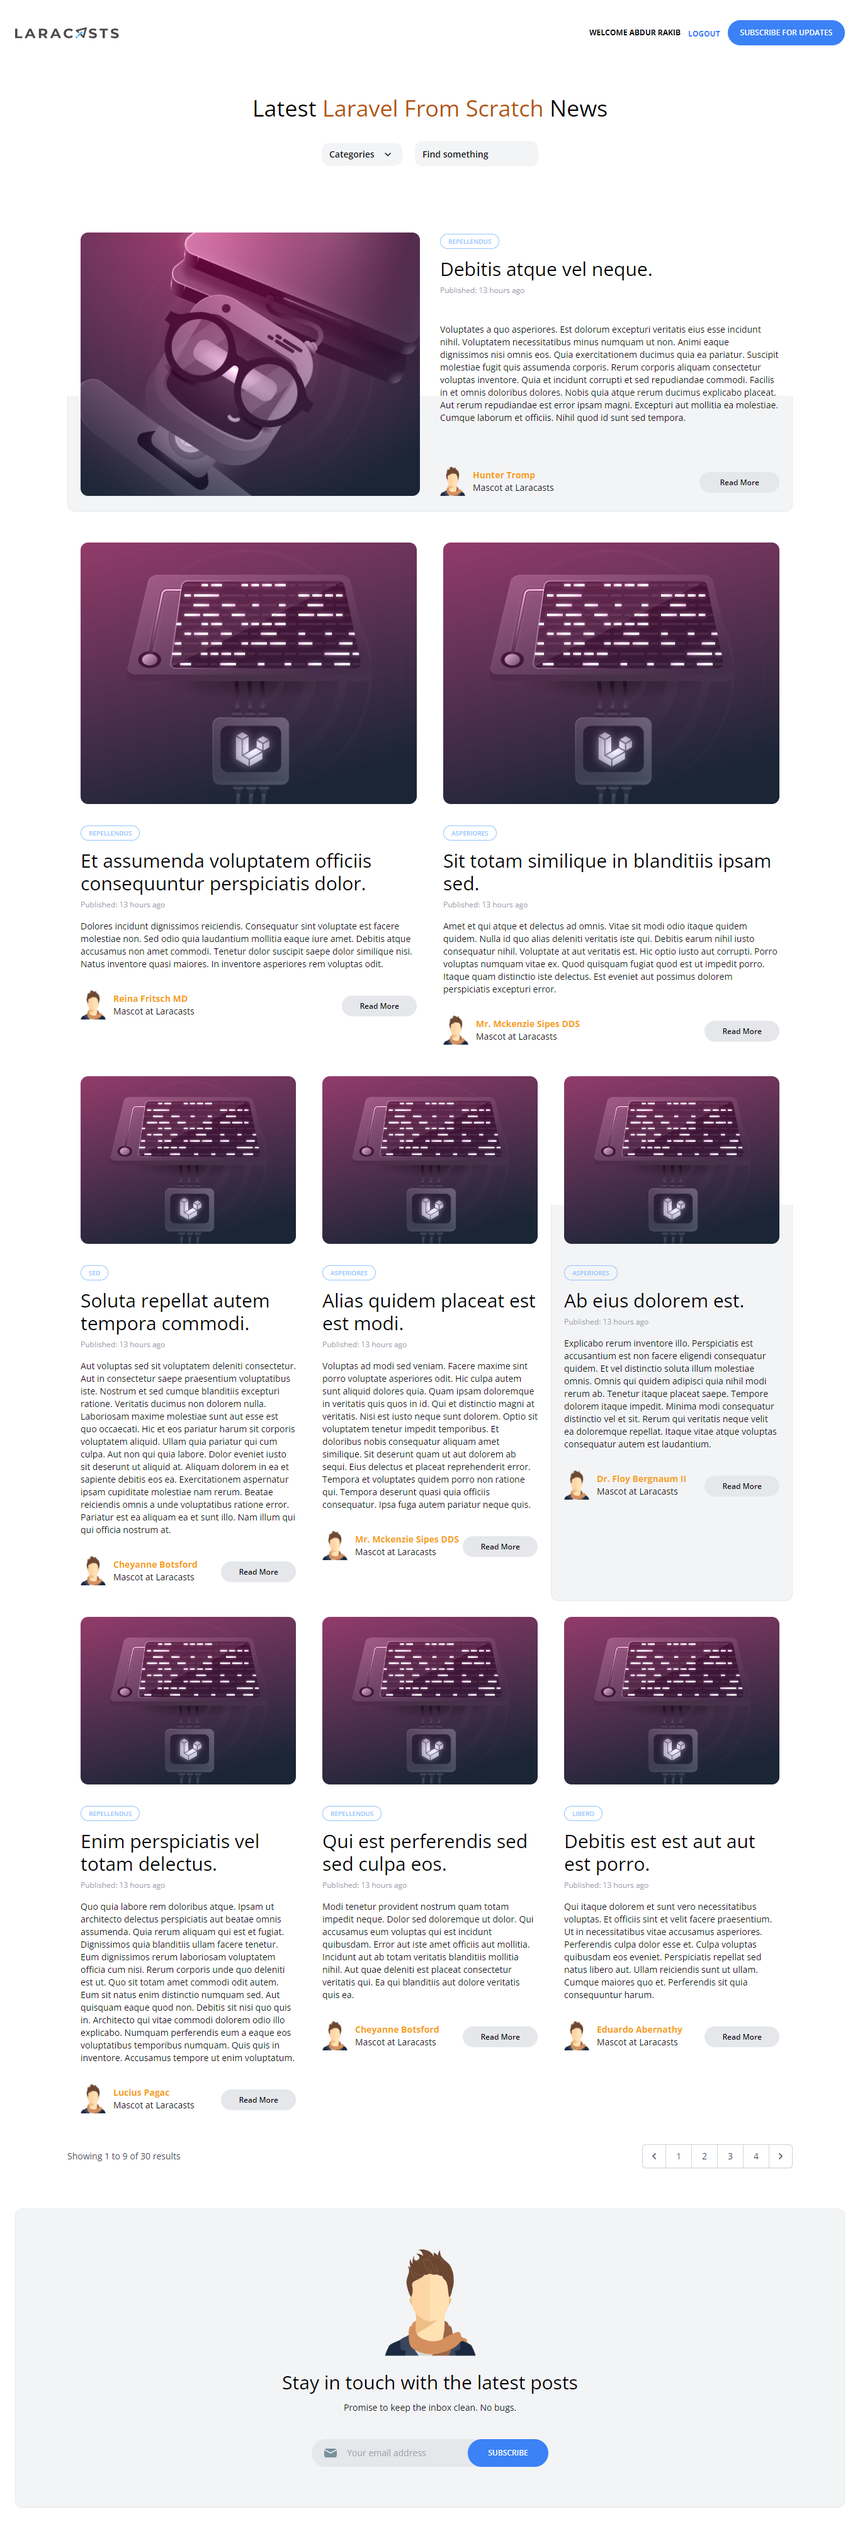
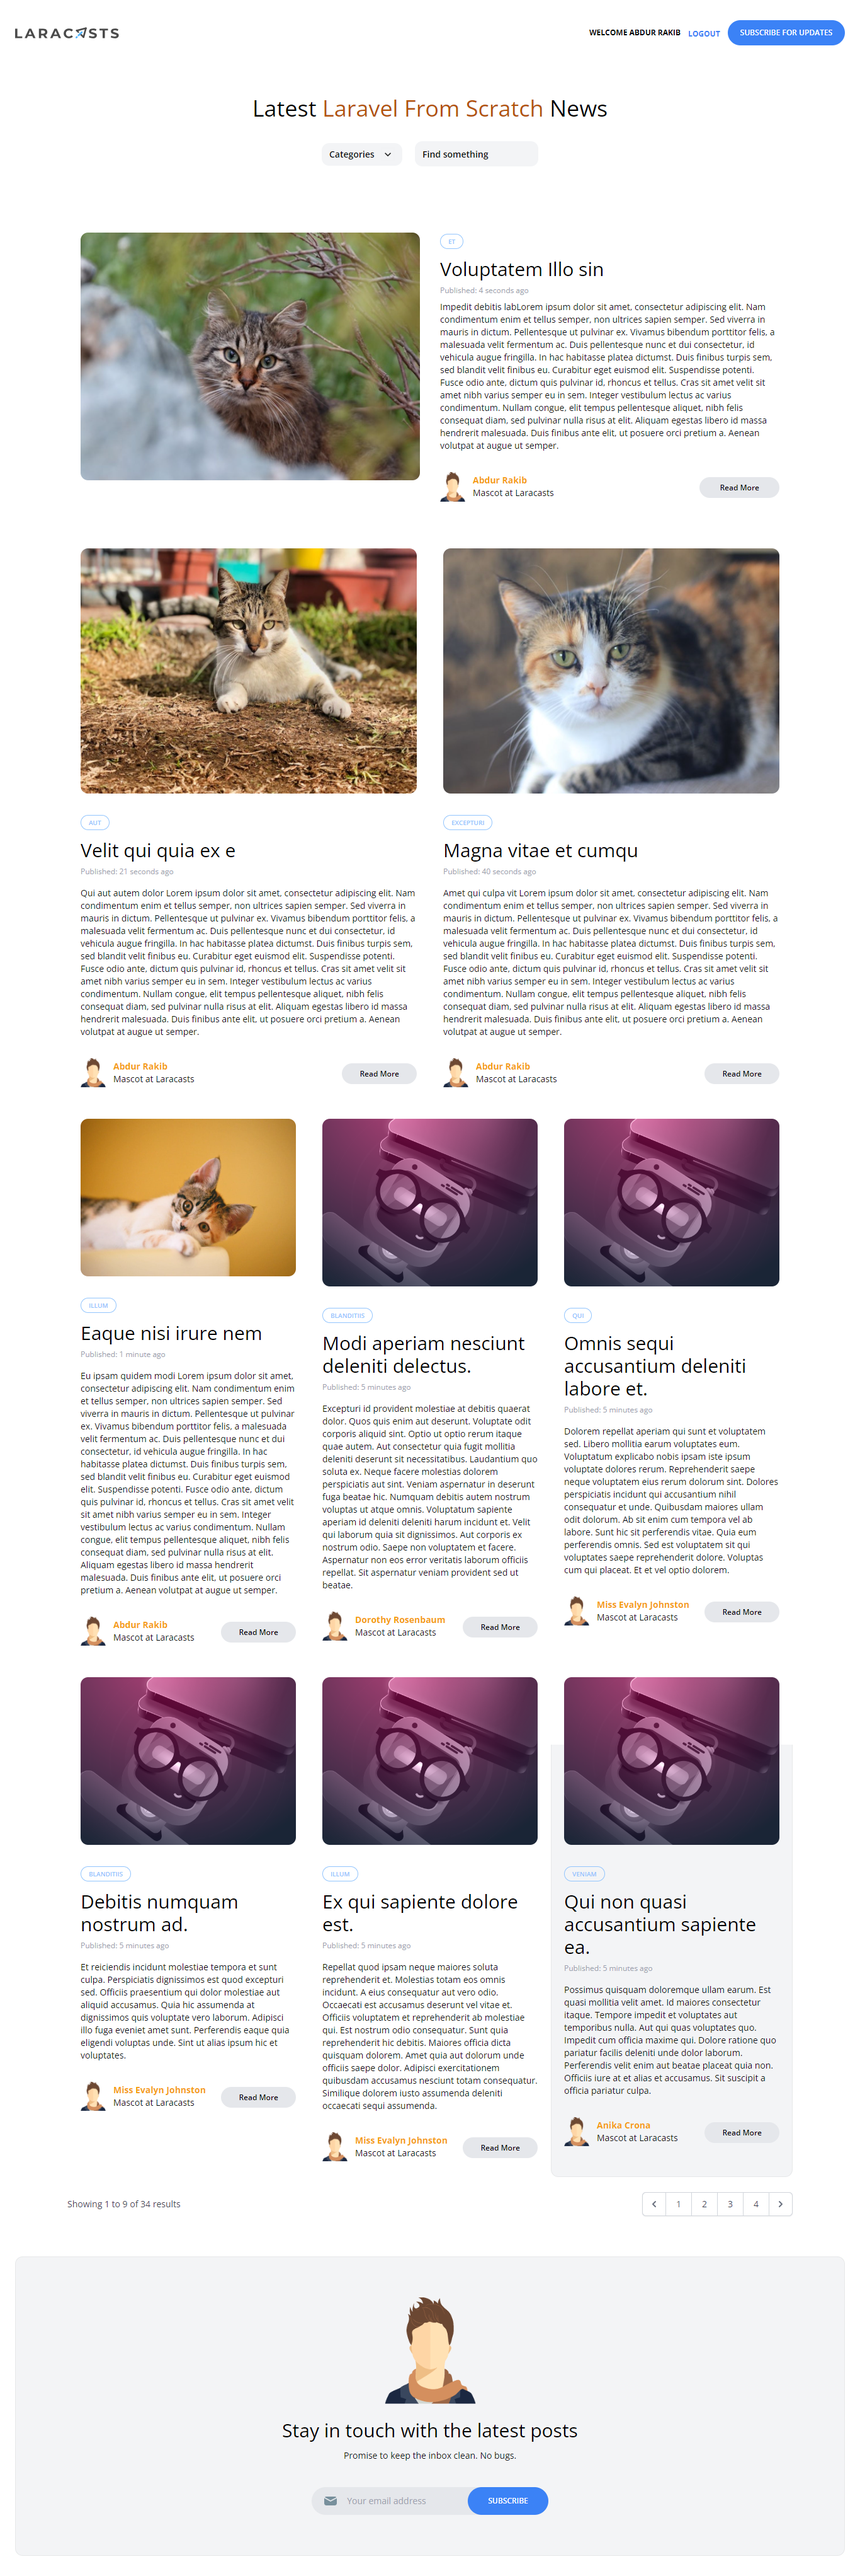
image invention install

diff --git a/resources/views/admin/post/create.blade.php b/resources/views/admin/post/create.blade.php
@@ -24,7 +24,7 @@
                     <div class="form-row">
                         <div class="form-group col-md-6">
                             <label for="inputTitle4">Title</label>
-                            <input type="text" name="title" class="form-control @error('title') is-invalid @enderror" id="inputTitle4" placeholder="Post Title" required>
+                            <input type="text" name="title" class="form-control @error('title') is-invalid @enderror" id="inputTitle4" value="{{ old('title') }}" placeholder="Post Title" required>
                             @error('title')
                                 <span class="text-danger small">{{ $message }}</span>
                             @enderror
@@ -44,14 +44,14 @@
                     </div>
                     <div class="form-group">
                         <label for="excerpt">Excerpt</label>
-                        <textarea class="form-control @error('excerpt') is-invalid @enderror" name="excerpt" id="excerpt" cols="10" rows="5" required></textarea>
+                        <textarea class="form-control @error('excerpt') is-invalid @enderror" name="excerpt" id="excerpt" cols="10" rows="5" required>{{ old('excerpt') }}</textarea>
                         @error('excerpt')
                             <span class="text-danger small">{{ $message }}</span>
                         @enderror
                     </div>
                     <div class="form-group">
                         <label for="body">Description</label>
-                        <textarea class="form-control @error('body') is-invalid @enderror" name="body" id="body" cols="10" rows="5" required></textarea>
+                        <textarea class="form-control @error('body') is-invalid @enderror" name="body" id="body" cols="10" rows="5" required>{{ old('body') }}</textarea>
                         @error('body')
                             <span class="text-danger small">{{ $message }}</span>
                         @enderror

diff --git a/resources/views/posts/index.blade.php b/resources/views/posts/index.blade.php
@@ -7,9 +7,9 @@
             <div class="py-6 px-5 lg:flex">
                 <div class="flex-1 lg:mr-8">
                     @if ($posts[0]->image)
-                        <img src="{{ asset('uploads/'. $posts[0]->image) }}" alt="Blog Post illustration" class="rounded-xl">
+                        <img src="{{ asset('uploads/'. $posts[0]->image) }}" alt="Blog Post illustration" class="rounded-xl w-full">
                     @else
-                        <img src="{{ asset('images/avatar.png') }}" alt="Blog Post illustration" class="rounded-xl">
+                        <img src="{{ asset('images/illustration-1.png') }}" alt="Blog Post illustration" class="rounded-xl">
                     @endif
                 </div>
 
@@ -72,7 +72,7 @@
                     <div class="py-6 px-5">
                         <div>
                             @if ($post->image)
-                                <img src="{{ asset('uploads/'. $post->image) }}" alt="Blog Post illustration" class="rounded-xl">
+                                <img src="{{ asset('uploads/'. $post->image) }}" alt="Blog Post illustration" class="rounded-xl w-full">
                             @else
                                 <img src="{{ asset('images/illustration-1.png') }}" alt="Blog Post illustration" class="rounded-xl">
                             @endif

diff --git a/app/Http/Controllers/PostController.php b/app/Http/Controllers/PostController.php
@@ -2,11 +2,12 @@
 
 namespace App\Http\Controllers;
 
-use App\Models\Category;
 use App\Models\Post;
-use Illuminate\Http\Request;
-use Illuminate\Support\Facades\Auth;
+use App\Models\Category;
 use Illuminate\Support\Str;
+use Illuminate\Http\Request;
+use Intervention\Image\Facades\Image;
+use Illuminate\Support\Facades\Auth;
 
 class PostController extends Controller {
     /**
@@ -58,7 +59,9 @@ class PostController extends Controller {
         if ( $request->hasFile( 'image' ) ) {
             $file = $request->file( 'image' );
             $fileName = uniqid() . '.' . $file->getClientOriginalExtension();
-            $file->move( 'uploads/', $fileName );
+            $file = Image::make($request->file( 'image' ));
+            $file->resize(1180, 860);
+            $file->save( 'uploads/'. $fileName, 80 );
         }
 
         Post::create( [

diff --git a/resources/views/posts/show.blade.php b/resources/views/posts/show.blade.php
@@ -4,7 +4,7 @@
     <article class="max-w-4xl mx-auto lg:grid lg:grid-cols-12 gap-x-10">
         <div class="col-span-4 lg:text-center lg:pt-14 mb-10">
             @if ($post->image)
-                <img src="{{ asset('uploads/'. $post->image) }}" alt="Blog Post illustration" class="rounded-xl">
+                <img src="{{ asset('uploads/'. $post->image) }}" alt="Blog Post illustration" class="rounded-xl w-full">
             @else
                 <img src="{{ asset('images/illustration-1.png') }}" alt="Blog Post illustration" class="rounded-xl">
             @endif

diff --git a/config/image.php b/config/image.php
@@ -1,0 +1,20 @@
+<?php
+
+return [
+
+    /*
+    |--------------------------------------------------------------------------
+    | Image Driver
+    |--------------------------------------------------------------------------
+    |
+    | Intervention Image supports "GD Library" and "Imagick" to process images
+    | internally. You may choose one of them according to your PHP
+    | configuration. By default PHP's "GD Library" implementation is used.
+    |
+    | Supported: "gd", "imagick"
+    |
+    */
+
+    'driver' => 'gd'
+
+];

diff --git a/config/app.php b/config/app.php
@@ -159,7 +159,7 @@ return [
         /*
          * Package Service Providers...
          */
-
+        Intervention\Image\ImageServiceProvider::class,
         /*
          * Application Service Providers...
          */
@@ -182,7 +182,7 @@ return [
     */
 
     'aliases' => Facade::defaultAliases()->merge([
-        // 'Example' => App\Facades\Example::class,
+        'Image' => Intervention\Image\Facades\Image::class,
     ])->toArray(),
 
 ];

diff --git a/routes/web.php b/routes/web.php
@@ -38,4 +38,5 @@ Route::prefix('admin')->middleware(['auth'])->group(function () {
     Route::post('/post-store', [PostController::class, 'store'])->name('admin.post.store');
     Route::get('/post-view/{slug}', [PostController::class, 'post'])->name('admin.post.view');
     Route::post('/post-delete/{id}', [PostController::class, 'destroy'])->name('admin.post.delete');
+
 });
